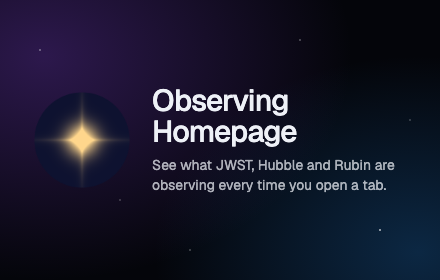
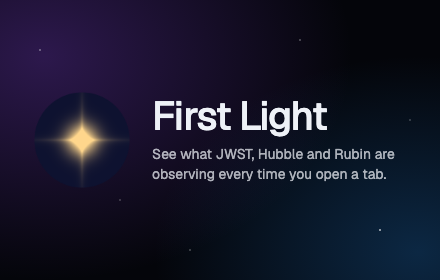
Rename the extension to First Light

Changed region(s): [[0.325, 0.3143, 0.9159, 0.6857]]

diff --git a/store/promo.html b/store/promo.html
@@ -4,7 +4,7 @@
 <html lang="en">
   <head>
     <meta charset="UTF-8" />
-    <title>Observing Homepage promo tile</title>
+    <title>First Light promo tile</title>
     <link rel="stylesheet" href="/node_modules/@fontsource-variable/geist/index.css" />
     <style>
       html,
@@ -43,7 +43,7 @@
 
       h1 {
         margin: 0 0 8px;
-        font-size: 30px;
+        font-size: 40px;
         font-weight: 500;
         line-height: 1.05;
         letter-spacing: -0.03em;
@@ -60,7 +60,7 @@
   <body>
     <img src="/icons/icon128.png" alt="" />
     <div>
-      <h1>Observing Homepage</h1>
+      <h1>First Light</h1>
       <p>See what JWST, Hubble and Rubin are observing every time you open a tab.</p>
     </div>
   </body>

diff --git a/README.md b/README.md
@@ -1,4 +1,4 @@
-# Observing Homepage
+# First Light
 
 A Chrome new tab page that shows what the James Webb and Hubble space telescopes are observing right now, what Rubin Observatory surveyed most recently, and the rest of your day from Google Calendar. The JWST and Hubble data comes from [Space Telescope Live](https://spacetelescopelive.org).
 
@@ -39,7 +39,7 @@ It currently runs in Chrome and Edge, and Firefox and Safari support is planned.
 
 ## Publish
 
-`npm run package` builds the extension and writes `release/observing-homepage-<version>.zip`, ready to upload to the Chrome Web Store or Microsoft Edge Add-ons. Bump `version` in `public/manifest.json` first. `store/listing.md` has the listing text, the permission justifications and the privacy answers; `store/screenshots/` and `store/promo-small.png` are the listing images; `PRIVACY.md` is the privacy policy.
+`npm run package` builds the extension and writes `release/first-light-<version>.zip`, ready to upload to the Chrome Web Store or Microsoft Edge Add-ons. Bump `version` in `public/manifest.json` first. `store/listing.md` has the listing text, the permission justifications and the privacy answers; `store/screenshots/` and `store/promo-small.png` are the listing images; `PRIVACY.md` is the privacy policy.
 
 Google Calendar access is an optional permission: the extension asks for it when you paste in a calendar address, so installing it only asks for the telescope data sites.
 

diff --git a/store/listing.md b/store/listing.md
@@ -2,11 +2,11 @@
 
 Copy these into the Chrome Web Store Developer Dashboard. The same text works for Microsoft Edge Add-ons.
 
-Upload: `release/observing-homepage-<version>.zip`, built with `npm run package`. Bump `version` in `public/manifest.json` for every update.
+Upload: `release/first-light-<version>.zip`, built with `npm run package`. Bump `version` in `public/manifest.json` for every update.
 
 ## Store listing tab
 
-**Name** (from the manifest): Observing Homepage
+**Name** (from the manifest): First Light
 
 **Summary** (from the manifest description, 132 characters max):
 A new tab page showing what JWST, Hubble, and Rubin are observing, plus your day.

diff --git a/PRIVACY.md b/PRIVACY.md
@@ -1,8 +1,8 @@
-# Observing Homepage privacy policy
+# First Light privacy policy
 
 _Last updated: October 26, 2026_
 
-Observing Homepage is a browser extension that replaces your new tab page with a clock, live telescope observations, a background picture, a to-do list and, if you connect one, your Google Calendar events for the day.
+First Light is a browser extension that replaces your new tab page with a clock, live telescope observations, a background picture, a to-do list and, if you connect one, your Google Calendar events for the day.
 
 ## What the extension stores
 
